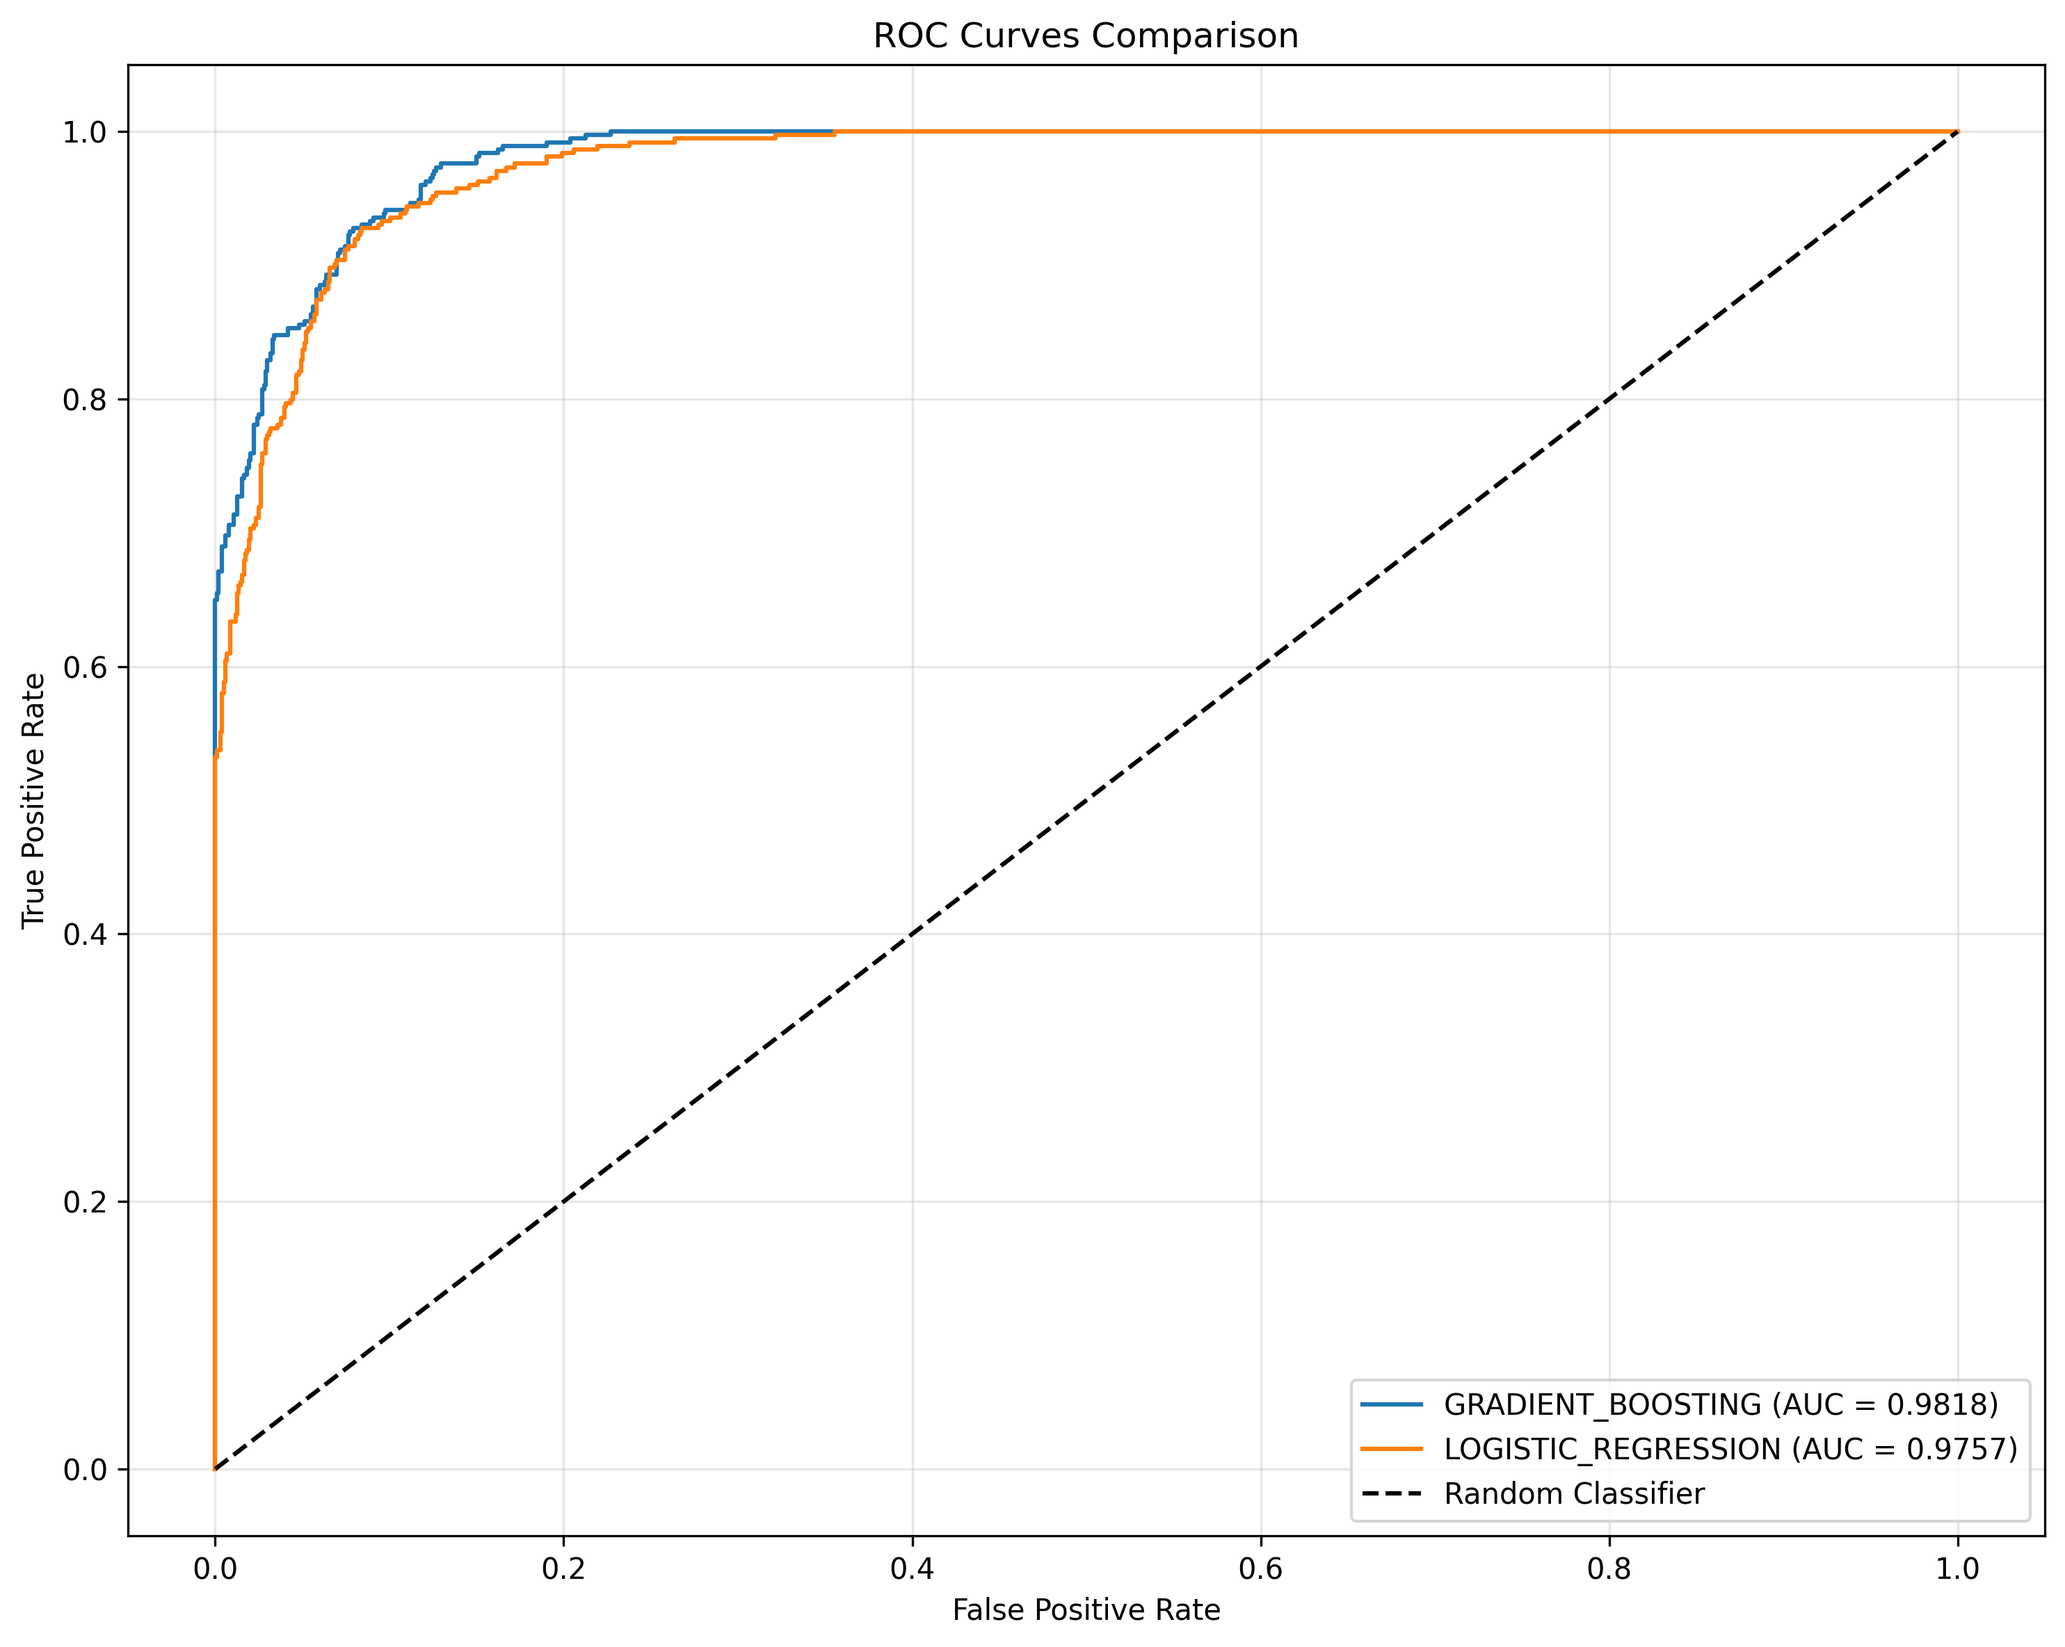
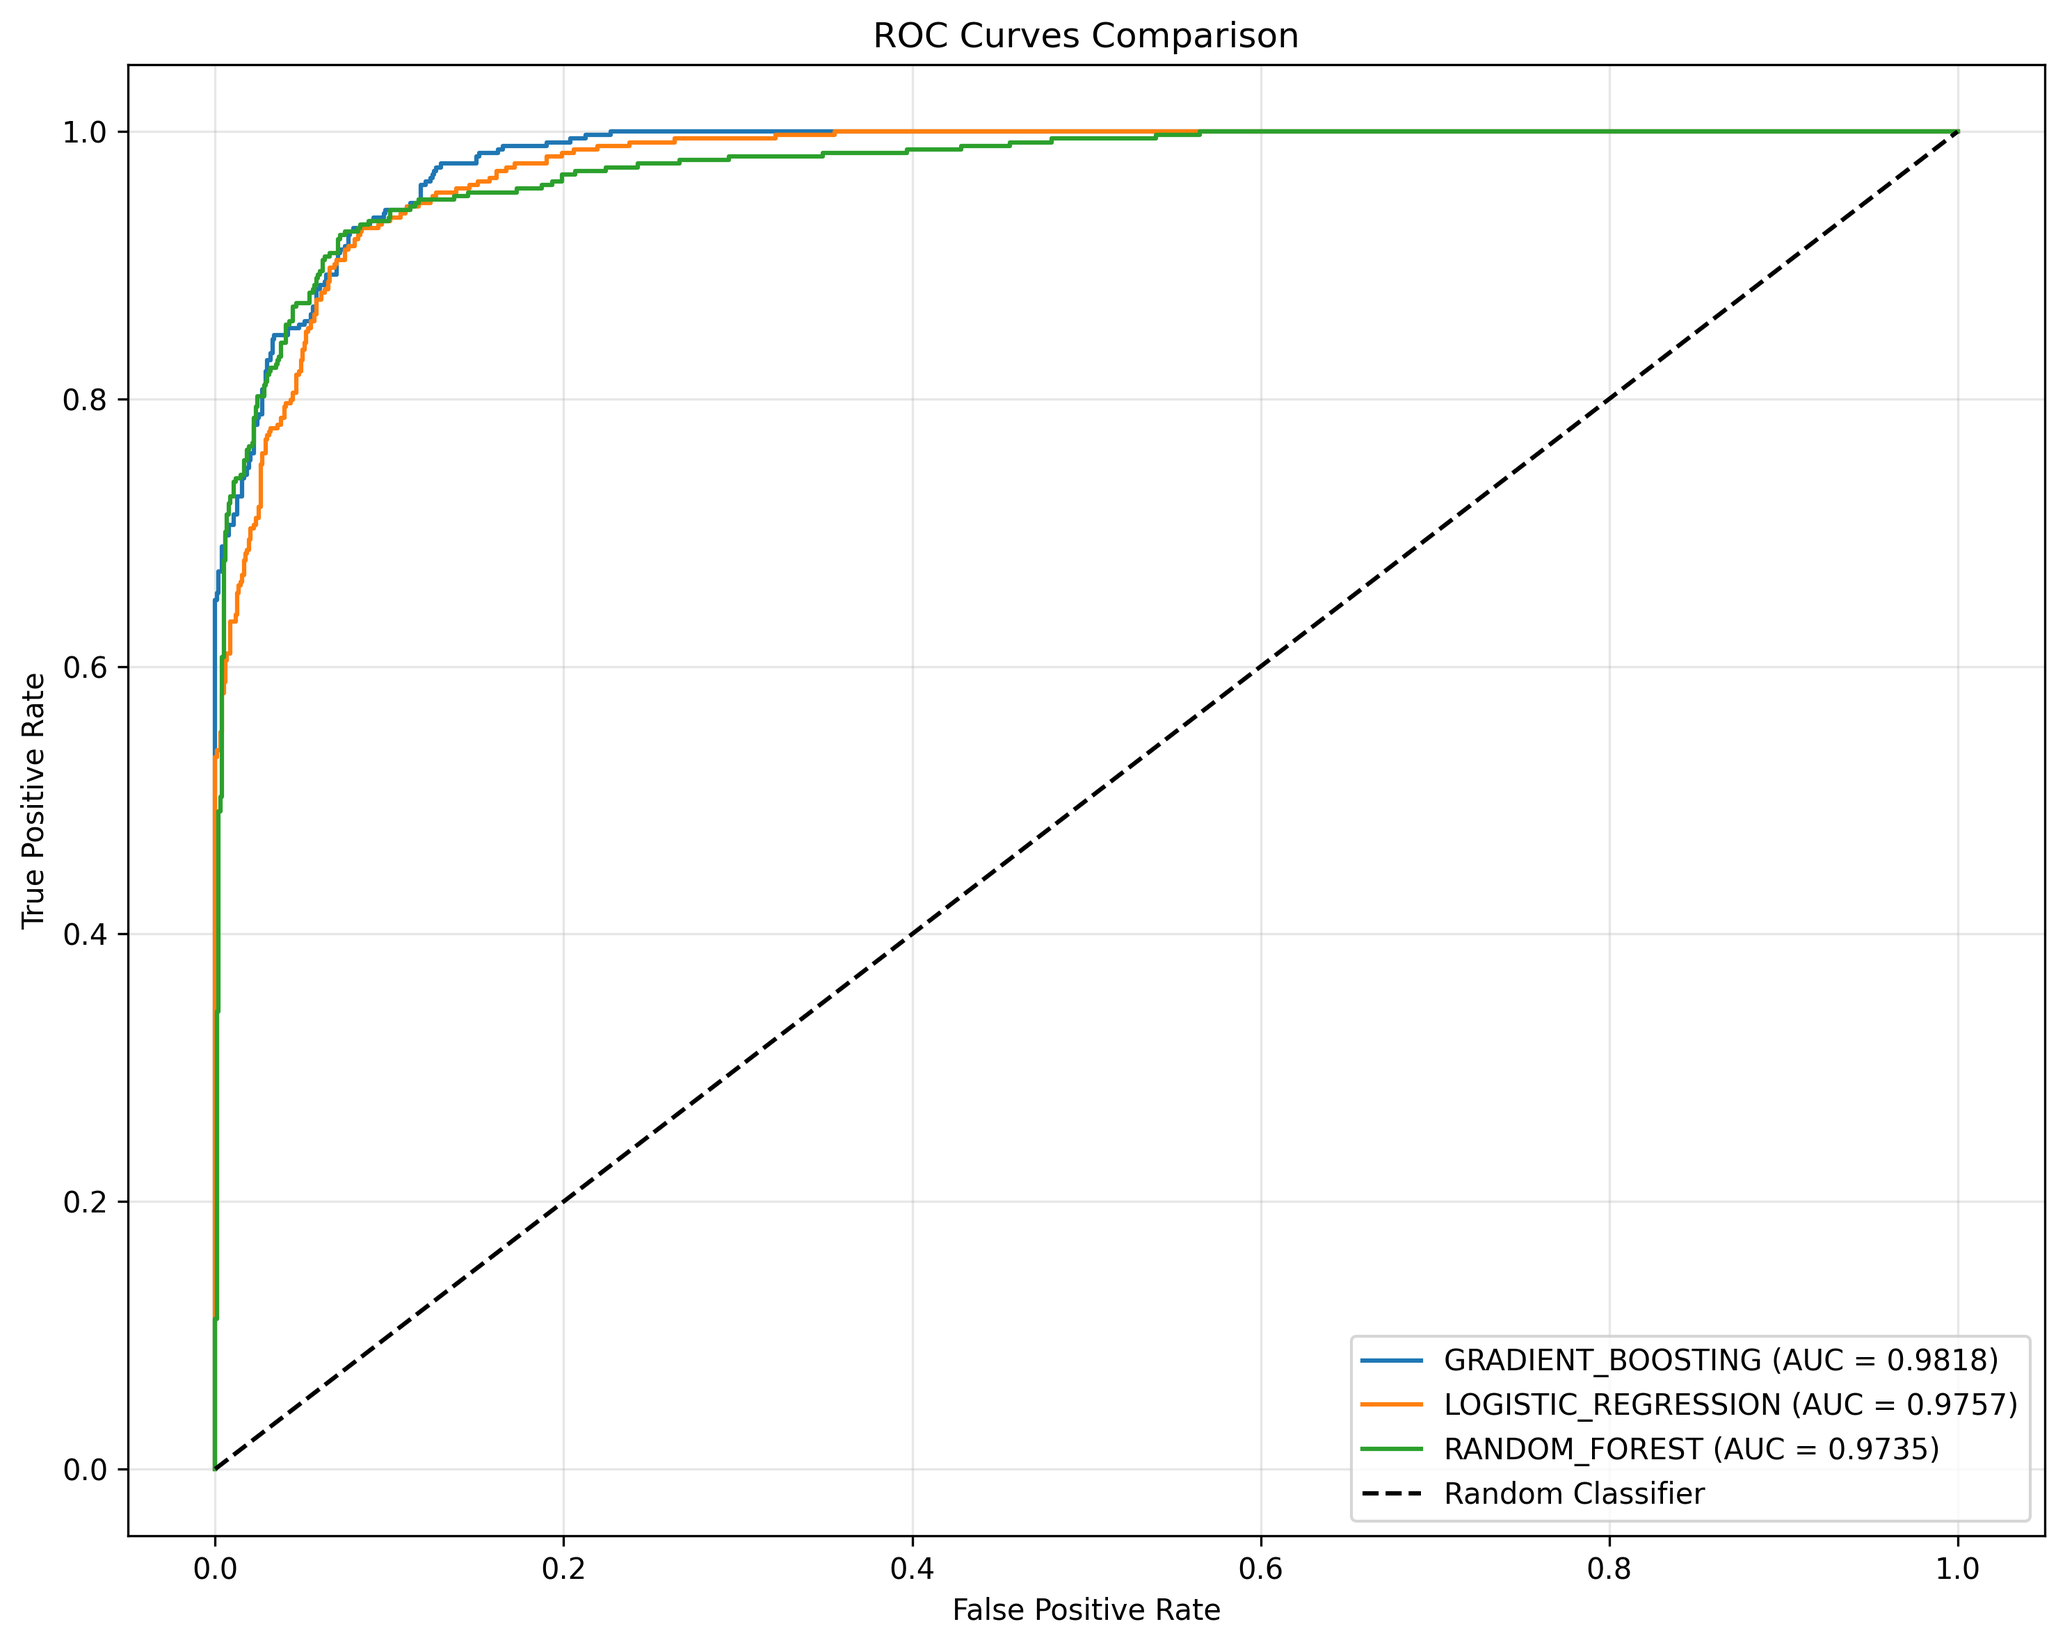
feat: Implement business value analysis with ROI and add Random Forest model to training.

diff --git a/templates/index.html b/templates/index.html
@@ -380,6 +380,26 @@
             if (response.ok) {
               const churnProb = (result.probability.churn * 100).toFixed(2);
               const riskClass = result.churn_risk.toLowerCase() + "-risk";
+              const bv = result.business_value;
+
+              let bvHtml = '';
+              if (bv) {
+                bvHtml = `
+                  <div style="margin-top: 20px; border-top: 1px solid #ccc; padding-top: 15px;">
+                    <h4>💰 Business Value Analysis</h4>
+                    <p><strong>Potential Revenue Loss:</strong> $${bv.loss_risk}</p>
+                    <p><strong>Customer Lifetime Value (Est.):</strong> $${bv.cltv}</p>
+                    <p><strong>Recommendation:</strong> 
+                      <span style="font-weight: bold; color: ${bv.expected_savings > 0 ? '#28a745' : '#6c757d'}">
+                        ${bv.recommendation}
+                      </span>
+                    </p>
+                    ${bv.expected_savings > 0 ? 
+                      `<p><strong>Projected ROI of Intervention:</strong> $${bv.expected_savings} (Cost: $${bv.retention_cost})</p>` : 
+                      ''}
+                  </div>
+                `;
+              }
 
               resultDiv.innerHTML = `
                       <h3>Prediction Result</h3>
@@ -392,6 +412,7 @@
                       <p><strong>Risk Level:</strong> <span class="${riskClass}">${
                 result.churn_risk
               }</span></p>
+                      ${bvHtml}
                   `;
               resultDiv.className = "result success";
             } else {

diff --git a/src/business_value.py b/src/business_value.py
@@ -1,0 +1,69 @@
+class BusinessValueCalculator:
+    def __init__(self, avg_monthly_charges=70.0, avg_tenure=24, retention_cost=50.0, retention_success_rate=0.5):
+        """
+        Initialize with default business assumptions.
+        :param avg_monthly_charges: Default monthly charges if missing
+        :param avg_tenure: Default remaining tenure (months) if missing
+        :param retention_cost: Cost of the intervention (e.g., discount amount)
+        :param retention_success_rate: Probability that the intervention saves the customer
+        """
+        self.avg_monthly_charges = avg_monthly_charges
+        self.avg_tenure = avg_tenure
+        self.retention_cost = retention_cost
+        self.retention_success_rate = retention_success_rate
+
+    def calculate_cltv(self, monthly_charges, tenure_months=None):
+        """
+        Calculate Customer Lifetime Value (CLTV).
+        Simple model: Monthly Charges * Remaining Tenure
+        """
+        if tenure_months is None:
+            tenure_months = self.avg_tenure
+        
+        # If we assume they stay for another 2 years by default if they don't churn at this moment
+        remaining_tenure = 24  
+        
+        return monthly_charges * remaining_tenure
+
+    def calculate_roi(self, churn_prob, monthly_charges):
+        """
+        Calculate the expected ROI of intervening.
+        
+        Scenario A: Don't Intervene
+        - Expected Value = (1 - churn_prob) * CLTV
+        (We lose everything if they churn)
+
+        Scenario B: Intervene
+        - Cost = retention_cost
+        - If they were going to churn (prob = churn_prob):
+            - We save them with prob = retention_success_rate. Value = CLTV - Cost.
+            - We fail to save them with prob = 1 - retention_success_rate. Value = -Cost.
+        - If they were NOT going to churn (prob = 1 - churn_prob):
+            - We wasted the money. Value = CLTV - Cost.
+
+        Benefit of Intervention = E(Intervene) - E(Don't Intervene)
+        
+        Simplified logic for User Display:
+        - "Loss Risk": churn_prob * CLTV
+        - "Expected Savings": (churn_prob * retention_success_rate * CLTV) - retention_cost
+        """
+        cltv = self.calculate_cltv(monthly_charges)
+        
+        loss_risk = churn_prob * cltv
+        
+        # Expected Savings Calculation
+        # Saving = (Money Saved) - Cost
+        # Money Saved = (Probability they churn AND we save them) * CLTV
+        expected_savings = (churn_prob * self.retention_success_rate * cltv) - self.retention_cost
+        
+        recommendation = "No Action Needed"
+        if expected_savings > 0:
+            recommendation = "Send Retention Offer"
+            
+        return {
+            'cltv': round(cltv, 2),
+            'loss_risk': round(loss_risk, 2),
+            'expected_savings': round(expected_savings, 2),
+            'recommendation': recommendation,
+            'retention_cost': self.retention_cost
+        }

diff --git a/src/model_training.py b/src/model_training.py
@@ -1,6 +1,6 @@
 import pandas as pd
 import numpy as np
-from sklearn.ensemble import GradientBoostingClassifier
+from sklearn.ensemble import GradientBoostingClassifier, RandomForestClassifier
 from sklearn.linear_model import LogisticRegression
 from sklearn.model_selection import GridSearchCV, cross_val_score
 from sklearn.metrics import classification_report, confusion_matrix, roc_auc_score, roc_curve
@@ -120,6 +120,46 @@ class ModelTrainer:
         
         return best_model_name, self.best_model
     
+    def train_random_forest(self, X_train, y_train, X_test, y_test):
+        """Train Random Forest Classifier with hyperparameter tuning"""
+        print("Training Random Forest Classifier...")
+        
+        param_grid = {
+            'n_estimators': [100, 200],
+            'max_depth': [5, 10, None],
+            'min_samples_split': [2, 5],
+            'min_samples_leaf': [1, 2]
+        }
+        
+        rf_classifier = RandomForestClassifier(random_state=42)
+        
+        grid_search = GridSearchCV(
+            rf_classifier, param_grid, cv=5, scoring='roc_auc', 
+            n_jobs=-1, verbose=1
+        )
+        
+        grid_search.fit(X_train, y_train)
+        
+        best_rf = grid_search.best_estimator_
+        
+        y_pred = best_rf.predict(X_test)
+        y_pred_proba = best_rf.predict_proba(X_test)[:, 1]
+        
+        self.models['random_forest'] = {
+            'model': best_rf,
+            'best_params': grid_search.best_params_,
+            'best_score': grid_search.best_score_,
+            'y_pred': y_pred,
+            'y_pred_proba': y_pred_proba,
+            'roc_auc': roc_auc_score(y_test, y_pred_proba)
+        }
+        
+        print(f"Best RF parameters: {grid_search.best_params_}")
+        print(f"Best RF CV score: {grid_search.best_score_:.4f}")
+        print(f"RF Test ROC-AUC: {roc_auc_score(y_test, y_pred_proba):.4f}")
+        
+        return best_rf
+
     def save_models(self):
         """Save trained models"""
         self.create_models_directory()
@@ -167,6 +207,7 @@ class ModelTrainer:
         
         self.train_gradient_boosting(X_train, y_train, X_test, y_test)
         self.train_logistic_regression(X_train, y_train, X_test, y_test)
+        self.train_random_forest(X_train, y_train, X_test, y_test)
         
         best_model_name, best_model = self.compare_models(y_test)
         

diff --git a/tests/verify_integration.py b/tests/verify_integration.py
@@ -1,0 +1,65 @@
+
+import unittest
+import sys
+import os
+import json
+from flask import Flask
+
+# Add src to path
+sys.path.append(os.path.join(os.path.dirname(os.path.dirname(__file__)), 'src'))
+
+from api import app, load_models
+
+class TestIntegration(unittest.TestCase):
+    def setUp(self):
+        self.app = app.test_client()
+        # Ensure models are loaded
+        load_models()
+
+    def test_predict_endpoint_roi(self):
+        # Sample high-value customer data
+        data = {
+            "gender": "Male",
+            "SeniorCitizen": "No",
+            "Partner": "Yes",
+            "Dependents": "No",
+            "tenure": 12,
+            "PhoneService": "Yes",
+            "MultipleLines": "No",
+            "InternetService": "Fiber optic",
+            "OnlineSecurity": "No",
+            "OnlineBackup": "Yes",
+            "DeviceProtection": "No",
+            "TechSupport": "No",
+            "StreamingTV": "No",
+            "StreamingMovies": "No",
+            "Contract": "Month-to-month",
+            "PaperlessBilling": "Yes",
+            "PaymentMethod": "Electronic check",
+            "MonthlyCharges": 90.0,
+            "TotalCharges": 1080.0
+        }
+        
+        response = self.app.post('/predict', 
+                               data=json.dumps(data),
+                               content_type='application/json')
+        
+        self.assertEqual(response.status_code, 200)
+        result = json.loads(response.data)
+        
+        print("\nAPI Response:")
+        print(json.dumps(result, indent=2))
+        
+        # Verify ROI fields exist
+        self.assertIn('business_value', result)
+        bv = result['business_value']
+        self.assertIn('loss_risk', bv)
+        self.assertIn('expected_savings', bv)
+        self.assertIn('recommendation', bv)
+        
+        # Verify values check out roughly
+        # CLTV should be roughly Monthly * 24 = 90 * 24 = 2160
+        self.assertAlmostEqual(bv['cltv'], 2160.0, delta=100)
+
+if __name__ == '__main__':
+    unittest.main()

diff --git a/tests/test_business_value.py b/tests/test_business_value.py
@@ -1,0 +1,40 @@
+
+import unittest
+import sys
+import os
+
+# Add src to path
+sys.path.append(os.path.join(os.path.dirname(os.path.dirname(__file__)), 'src'))
+
+from business_value import BusinessValueCalculator
+
+class TestBusinessValue(unittest.TestCase):
+    def setUp(self):
+        self.bv = BusinessValueCalculator(
+            avg_monthly_charges=50,
+            avg_tenure=24,
+            retention_cost=50,
+            retention_success_rate=0.5
+        )
+
+    def test_cltv_calculation(self):
+        # 100 * 24 = 2400
+        cltv = self.bv.calculate_cltv(100, 24)
+        self.assertEqual(cltv, 2400)
+
+    def test_roi_calculation_no_churn(self):
+        # Churn prob 0. ROI should be small negative or zero depending on logic, 
+        # but logic says: (0 * 0.5 * CLTV) - 50 = -50
+        result = self.bv.calculate_roi(churn_prob=0.0, monthly_charges=100)
+        self.assertEqual(result['expected_savings'], -50.0)
+        self.assertEqual(result['recommendation'], "No Action Needed")
+
+    def test_roi_calculation_high_churn(self):
+        # Churn prob 1.0. CLTV = 100 * 24 = 2400.
+        # Savings = (1.0 * 0.5 * 2400) - 50 = 1200 - 50 = 1150
+        result = self.bv.calculate_roi(churn_prob=1.0, monthly_charges=100)
+        self.assertEqual(result['expected_savings'], 1150.0)
+        self.assertEqual(result['recommendation'], "Send Retention Offer")
+
+if __name__ == '__main__':
+    unittest.main()

diff --git a/src/api.py b/src/api.py
@@ -4,6 +4,7 @@ import pandas as pd
 import numpy as np
 import os
 import json
+from business_value import BusinessValueCalculator
 
 template_dir = os.path.join(os.path.dirname(os.path.dirname(__file__)), 'templates')
 static_dir = os.path.join(os.path.dirname(os.path.dirname(__file__)), 'static')
@@ -13,6 +14,7 @@ app = Flask(__name__, template_folder=template_dir, static_folder=static_dir)
 model = None
 preprocessor = None
 feature_names = None
+bv_calculator = BusinessValueCalculator()
 
 def load_models():
     """Load models and preprocessor"""
@@ -78,7 +80,11 @@ def predict():
                 'churn': float(probability[1])
             },
             'churn_probability': float(probability[1]),
-            'churn_risk': 'High' if probability[1] > 0.7 else 'Medium' if probability[1] > 0.3 else 'Low'
+            'churn_risk': 'High' if probability[1] > 0.7 else 'Medium' if probability[1] > 0.3 else 'Low',
+            'business_value': bv_calculator.calculate_roi(
+                churn_prob=float(probability[1]),
+                monthly_charges=float(data.get('MonthlyCharges', 0)) or float(sample_customer.get('Monthly Charges', 0))
+            )
         })
         
     except Exception as e:

diff --git a/README.md b/README.md
@@ -5,9 +5,10 @@ A comprehensive machine learning system for predicting customer churn using the 
 ## Features
 
 - **Exploratory Data Analysis (EDA)**: Comprehensive analysis with visualizations
-- **Multiple ML Models**: Gradient Boosting and Logistic Regression
+- **Multiple ML Models**: Gradient Boosting, Random Forest, and Logistic Regression
+- **Business Value Analysis**: ROI calculation and retention offer recommendations
 - **Model Evaluation**: Detailed performance metrics and comparisons
-- **Web Interface**: Flask-based web application for real-time predictions
+- **Web Interface**: Flask-based web application for real-time predictions and ROI analysis
 - **API Endpoints**: RESTful API for integration with other systems
 - **Automated Pipeline**: Complete end-to-end machine learning pipeline
 
@@ -29,6 +30,7 @@ churn-prediction-system/
 │   └── telco_churn.csv         # Dataset
 ├── src/
 │   ├── data_preprocessing.py   # Data cleaning and preprocessing
+│   ├── business_value.py      # ROI and business value calculations
 │   ├── eda.py                 # Exploratory data analysis
 │   ├── model_training.py      # Model training and selection
 │   ├── model_evaluation.py    # Model evaluation and metrics
@@ -150,3 +152,10 @@ print(response.json())
 - Visual comparisons between models
 - Feature importance analysis
 - Confusion matrices and classification reports
+
+### Business Value Intelligence
+
+- Calculates Potential Revenue Loss per customer
+- Estimates Customer Lifetime Value (CLTV)
+- Recommends whether to send retention offers based on ROI
+- Avoids wasteful spending on low-risk customers
